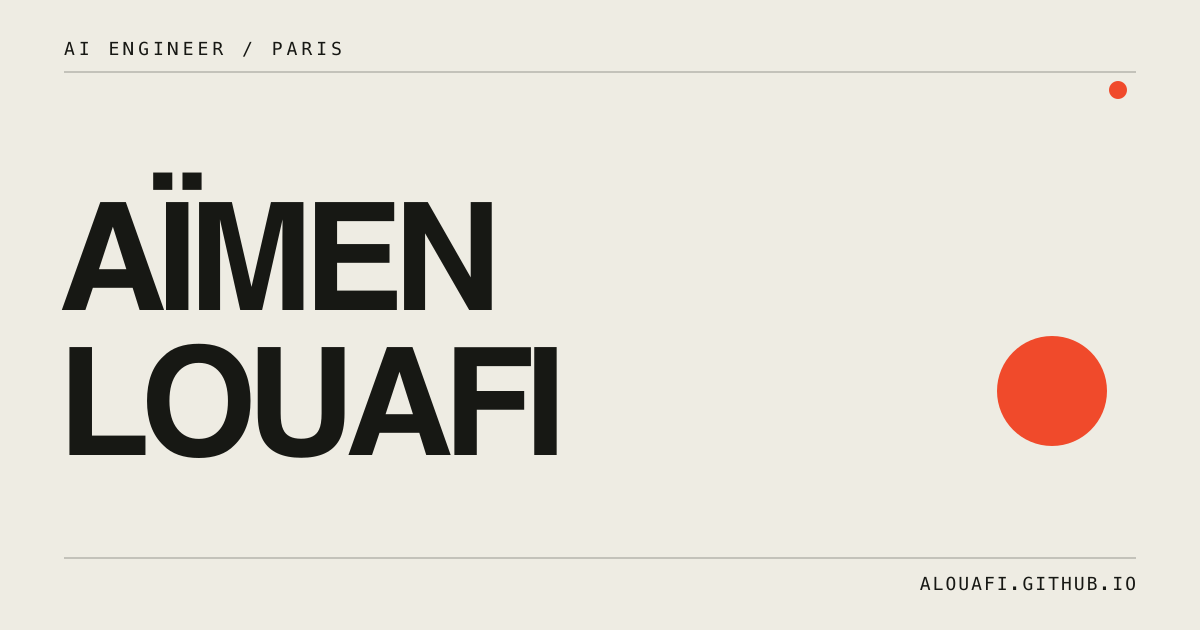
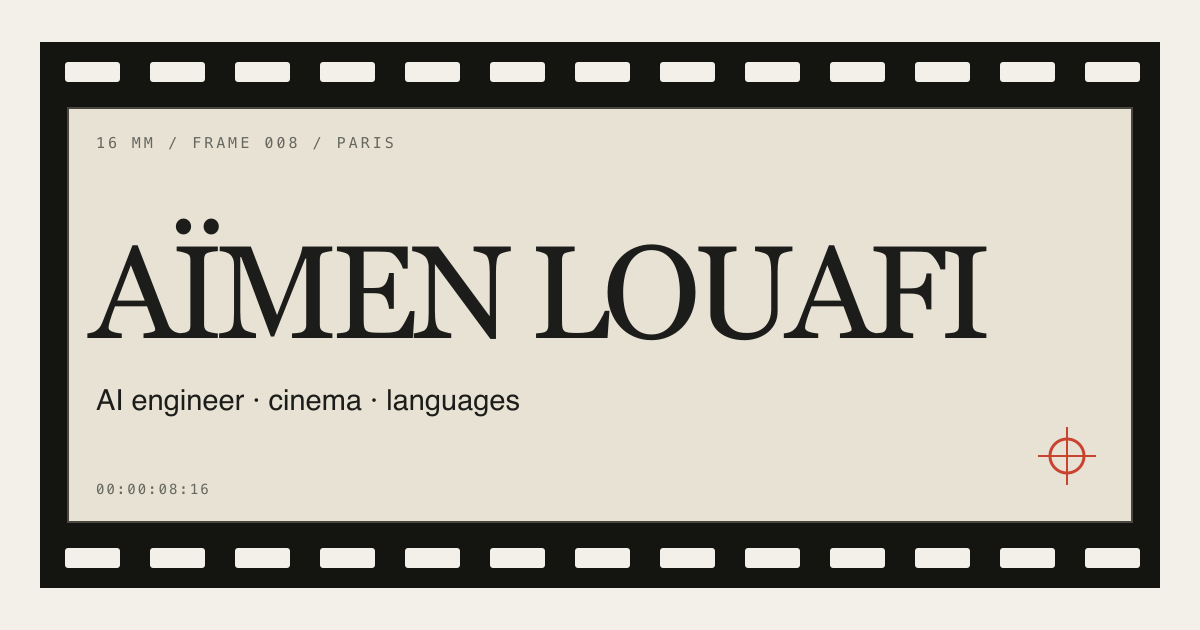
Redesign homepage as a 16mm film strip

diff --git a/src/styles/global.css b/src/styles/global.css
@@ -187,15 +187,52 @@ button {
 
 .home {
   min-height: calc(100svh - 5rem);
+  padding-block: clamp(1.5rem, 4vw, 3.5rem);
 }
 
 .intro {
+  position: relative;
   display: grid;
-  grid-template-columns: minmax(13rem, 18rem) minmax(0, 1fr);
-  gap: clamp(3rem, 10vw, 9rem);
-  align-items: center;
-  min-height: calc(100svh - 5rem);
-  padding-block: clamp(3rem, 8vw, 7rem);
+  grid-template-columns: minmax(15rem, 0.62fr) minmax(0, 1.38fr);
+  gap: 0.55rem;
+  align-items: stretch;
+  min-height: clamp(35rem, 72svh, 43rem);
+  padding: 4.25rem 2rem;
+  overflow: hidden;
+  color: var(--ink);
+  background: #141410;
+  box-shadow: 0 1.25rem 3rem rgba(28, 29, 26, 0.16);
+}
+
+.film-frame {
+  position: relative;
+  background: #e8e2d4;
+  border: 1px solid #3e3d37;
+}
+
+.perforations {
+  position: absolute;
+  right: 1.25rem;
+  left: 1.25rem;
+  display: flex;
+  justify-content: space-between;
+  pointer-events: none;
+}
+
+.perforations-top {
+  top: 1rem;
+}
+
+.perforations-bottom {
+  bottom: 1rem;
+}
+
+.perforations i {
+  width: clamp(0.8rem, 2.2vw, 1.65rem);
+  height: 0.95rem;
+  background: var(--paper);
+  border-radius: 0.16rem;
+  box-shadow: inset 0 0 0 1px rgba(28, 29, 26, 0.18);
 }
 
 .eyebrow {
@@ -215,12 +252,17 @@ button {
   letter-spacing: -0.065em;
 }
 
+.intro h1 {
+  max-width: 7ch;
+  font-size: clamp(4.4rem, 8vw, 7rem);
+}
+
 .accent-mark {
   color: var(--accent);
 }
 
 .intro-body {
-  max-width: 39rem;
+  max-width: 34rem;
   margin-top: clamp(2rem, 5vw, 3rem);
   color: var(--muted);
   font-size: clamp(1.05rem, 1.6vw, 1.2rem);
@@ -249,25 +291,119 @@ button {
 }
 
 .portrait {
+  position: relative;
+  display: flex;
+  flex-direction: column;
   margin: 0;
+  padding: 0.7rem;
+}
+
+.portrait-window {
+  position: relative;
+  flex: 1;
+  min-height: 0;
+  overflow: hidden;
 }
 
 .portrait img {
   width: 100%;
-  aspect-ratio: 4 / 5;
+  height: 100%;
   object-fit: cover;
-  border: 1px solid var(--line);
-  filter: grayscale(1);
+  filter: grayscale(1) contrast(1.06) sepia(0.12);
+  transition: filter 350ms ease;
+}
+
+.portrait:hover img {
+  filter: grayscale(0.35) contrast(1.02) sepia(0.05);
 }
 
 .portrait figcaption {
+  display: flex;
+  justify-content: space-between;
+  gap: 1rem;
   margin-top: 0.6rem;
   color: var(--muted);
   font-family: var(--mono);
   font-size: 0.6rem;
   letter-spacing: 0.05em;
-  text-align: right;
   text-transform: uppercase;
+}
+
+.frame-code {
+  position: absolute;
+  z-index: 2;
+  top: -3.15rem;
+  left: 0;
+  color: #dca92f;
+  font-family: var(--mono);
+  font-size: 0.68rem;
+  letter-spacing: 0.12em;
+}
+
+.registration-mark {
+  position: absolute;
+  top: 1rem;
+  right: 1rem;
+  width: 1rem;
+  height: 1rem;
+  border: 1px solid var(--accent);
+  border-radius: 50%;
+}
+
+.registration-mark::before,
+.registration-mark::after {
+  position: absolute;
+  top: 50%;
+  left: 50%;
+  background: var(--accent);
+  content: "";
+  transform: translate(-50%, -50%);
+}
+
+.registration-mark::before {
+  width: 1.55rem;
+  height: 1px;
+}
+
+.registration-mark::after {
+  width: 1px;
+  height: 1.55rem;
+}
+
+.intro-copy {
+  display: flex;
+  flex-direction: column;
+  justify-content: center;
+  padding: clamp(2rem, 5vw, 4.5rem);
+}
+
+.frame-meta,
+.frame-footer {
+  display: flex;
+  justify-content: space-between;
+  gap: 1rem;
+  color: var(--muted);
+  font-family: var(--mono);
+  font-size: 0.58rem;
+  letter-spacing: 0.06em;
+  text-transform: uppercase;
+}
+
+.frame-meta {
+  margin-bottom: clamp(3rem, 8vh, 6rem);
+  padding-bottom: 0.55rem;
+  border-bottom: 1px solid var(--line);
+}
+
+.frame-footer {
+  margin-top: auto;
+  padding-top: 0.75rem;
+  border-top: 1px solid var(--line);
+}
+
+.timecode {
+  color: var(--accent);
+  font-variant-numeric: tabular-nums;
 }
 
 .post-date,
@@ -562,10 +698,21 @@ button {
     grid-template-columns: 1fr;
     align-items: start;
     min-height: auto;
+    padding: 4rem 1rem;
   }
 
   .portrait {
-    width: min(68%, 17rem);
+    width: min(100%, 24rem);
+    min-height: 27rem;
+    justify-self: center;
+  }
+
+  .intro-copy {
+    min-height: 31rem;
+  }
+
+  .frame-meta {
+    margin-bottom: 3rem;
   }
 
   .writing-hero,
@@ -597,6 +744,24 @@ button {
 @media (max-width: 560px) {
   .intro h1 {
     font-size: clamp(4rem, 20vw, 6rem);
+  }
+
+  .intro {
+    padding-inline: 0.65rem;
+  }
+
+  .perforations {
+    right: 0.7rem;
+    left: 0.7rem;
+  }
+
+  .intro-copy {
+    padding: 2rem 1.5rem;
+  }
+
+  .frame-meta span:last-child,
+  .frame-footer span:first-child {
+    display: none;
   }
 }
 
